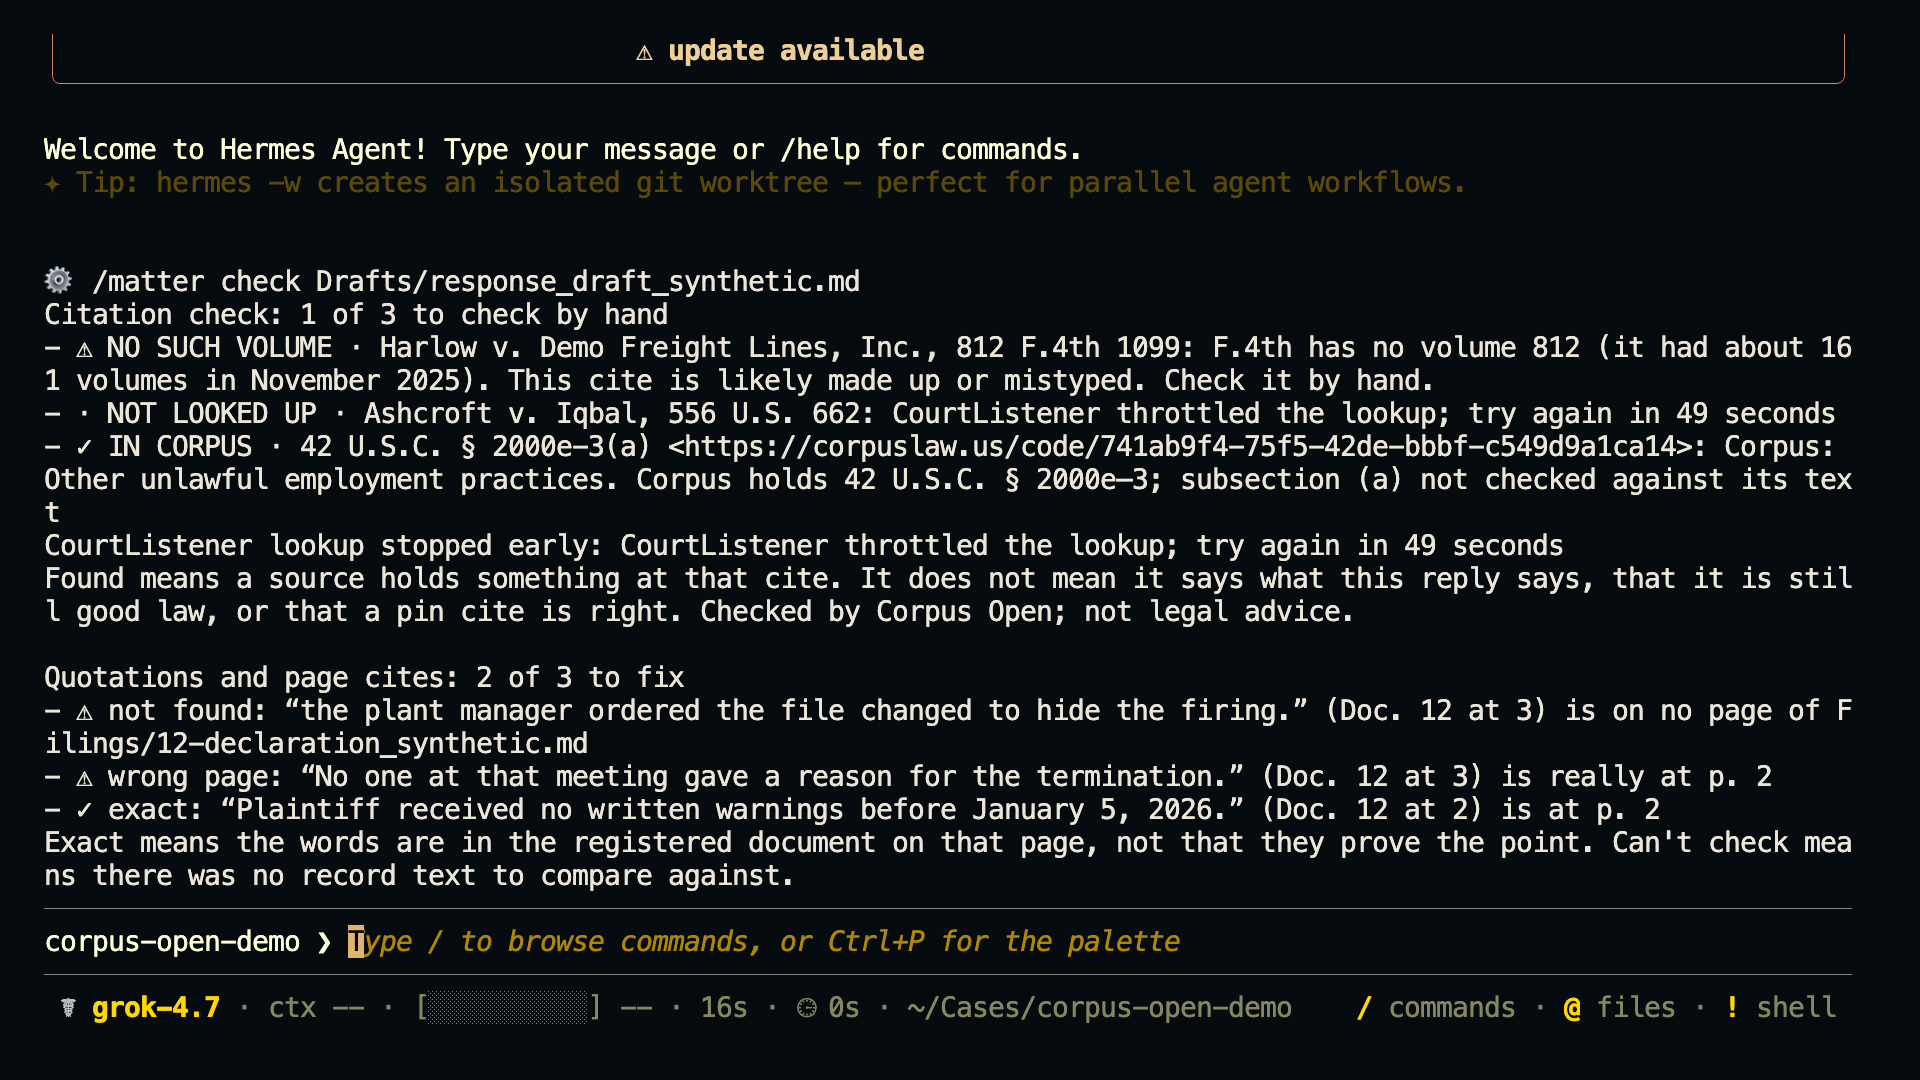
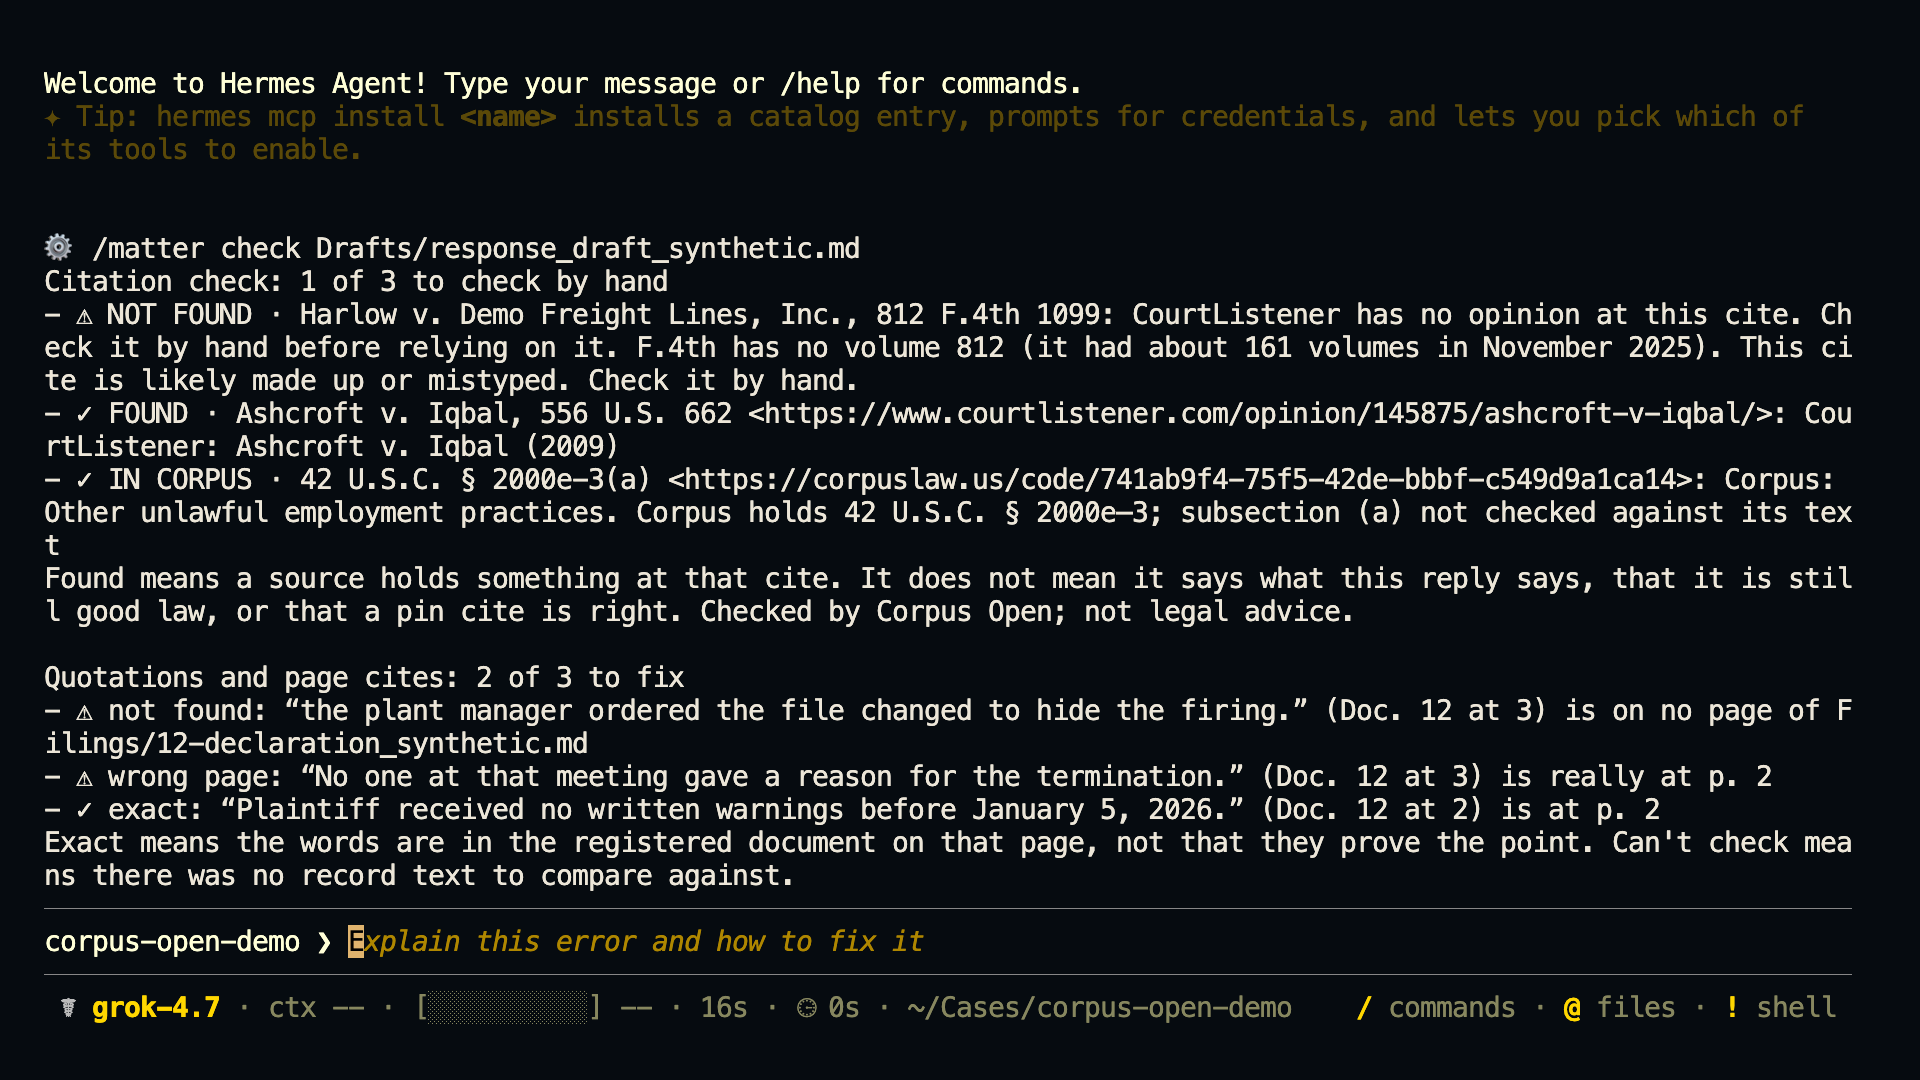
docs(readme): use the 11:24 /matter check capture, with Iqbal FOUND
The earlier shot was taken while CourtListener was throttling, so its
Iqbal row read NOT LOOKED UP. This one is from a live run with the key,
where Iqbal is FOUND, the statute is IN CORPUS and Harlow is NOT FOUND
with the impossible-volume note.

Changed region(s): [[0.0, 0.2139, 0.9688, 0.5194], [0.0, 0.0306, 0.9375, 0.1833], [0.1875, 0.8556, 0.625, 0.8861]]

diff --git a/README.md b/README.md
@@ -48,7 +48,7 @@ Quotations and page cites: 2 of 3 to fix
 ```
 
 <p align="center">
-  <img src="docs/media/01-matter-check.png" alt="/matter check in the Hermes terminal: the made-up case flagged NO SUCH VOLUME, the statute IN CORPUS, and the two bad quotations caught" width="100%">
+  <img src="docs/media/01-matter-check.png" alt="/matter check in the Hermes terminal with a CourtListener key: the made-up case NOT FOUND and flagged as an impossible volume, Ashcroft v. Iqbal FOUND, the statute IN CORPUS, and the two bad quotations caught" width="100%">
 </p>
 
 Next, ask the agent to add a quotation from Doc. 12 to the draft. If the words are not in that
